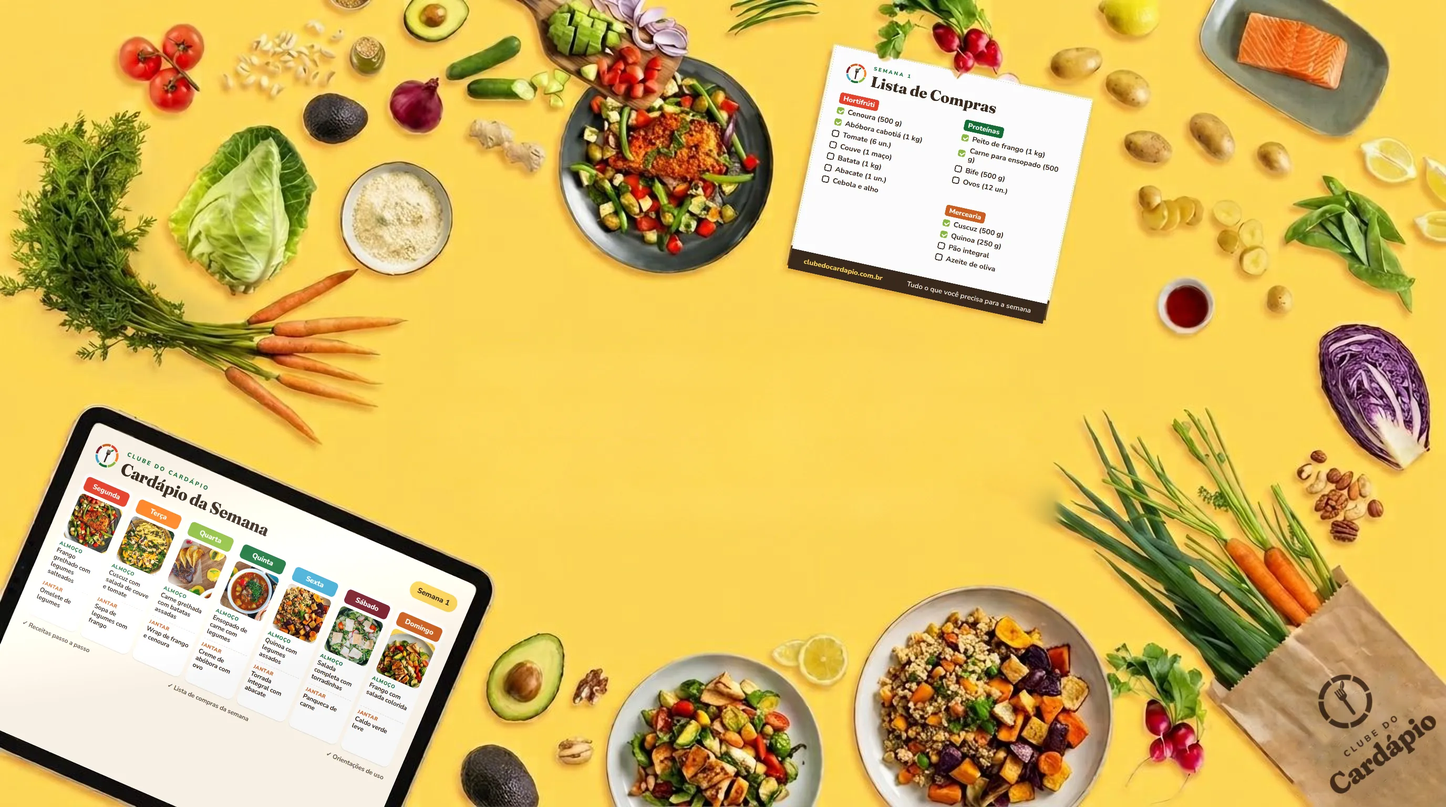
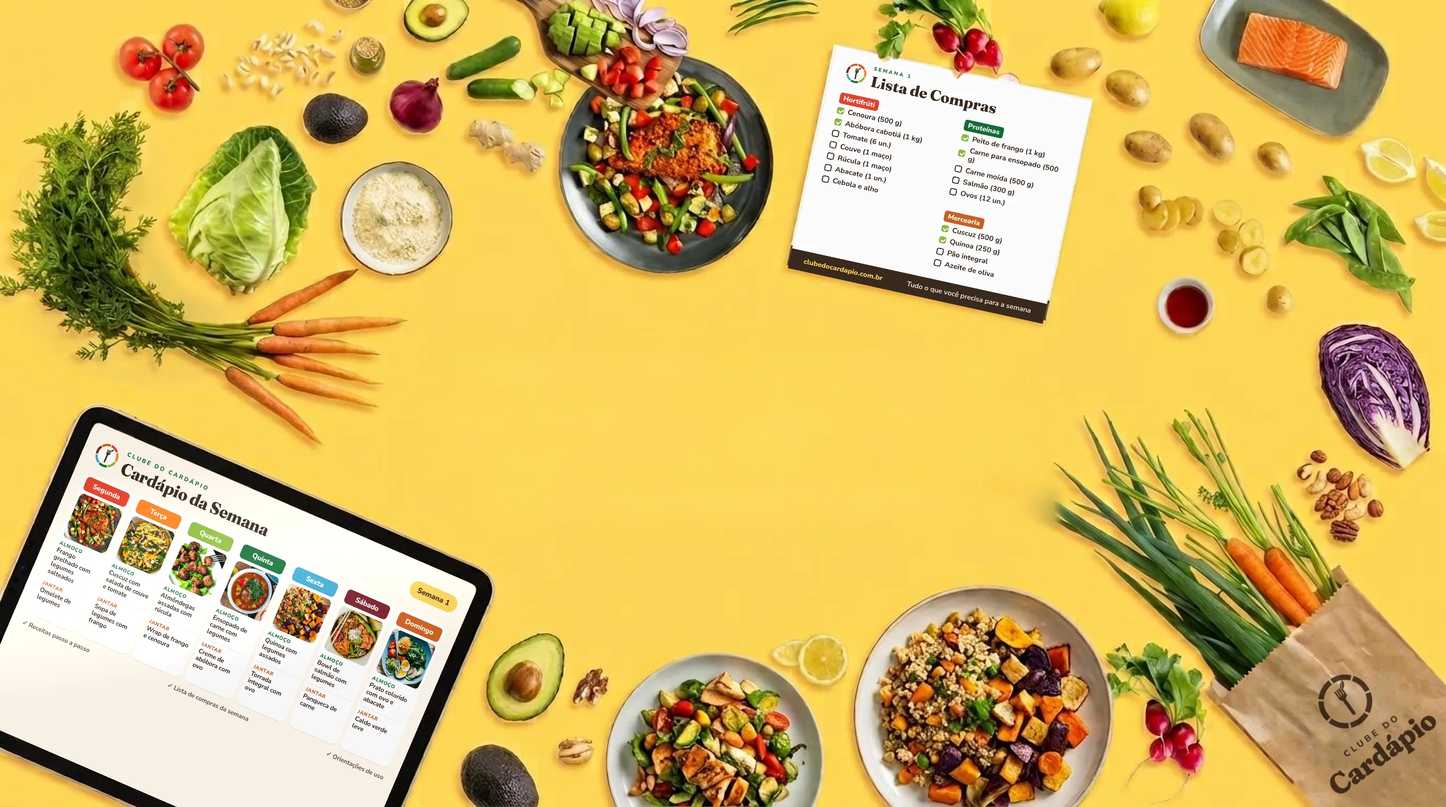
Tablet do HERO: troca de 3 fotos por imagens de melhor qualidade
- Quarta: almôndegas assadas com rúcula (no lugar da carne grelhada).
- Sábado: bowl de salmão com legumes.
- Domingo: prato colorido com ovo e abacate.
- Lista de compras ajustada aos novos pratos; HERO, faixas mobile,
  og-image e modelos de Instagram regenerados.

Claude-Session: https://claude.ai/code/session_011dvyRhPNz3FX2TnzhsmVBS

Changed region(s): [[0.2188, 0.75, 0.3125, 0.875], [0.625, 0.2188, 0.7188, 0.3438], [0.0938, 0.6562, 0.1562, 0.75]]

diff --git a/images/pratos/LEIA-ME.md b/images/pratos/LEIA-ME.md
@@ -2,7 +2,7 @@
 
 Recortes quadrados usados no mockup do tablet (`images/mockups/tablet-cardapio-semana.png`).
 
-- `ter-cuscuz-couve`, `qua-carne-batatas`, `qui-ensopado`, `sab-salada-torradinhas`: fotos do Unsplash enviadas pela equipe (licença Unsplash: uso comercial livre, sem necessidade de crédito).
-- `seg-frango-legumes`, `sex-quinoa-legumes`, `dom-frango-salada`: recortes da própria imagem do HERO.
+- `ter-cuscuz-couve`, `qua-almondegas-rucula`, `qui-ensopado`, `sab-bowl-salmao`, `dom-prato-ovo-abacate`: fotos do Unsplash enviadas pela equipe (licença Unsplash: uso comercial livre, sem necessidade de crédito).
+- `seg-frango-legumes`, `sex-quinoa-legumes`: recortes da própria imagem do HERO.
 
 Substituir por fotos reais das preparações da Rita quando estiverem disponíveis (item 18 do Memorial).
